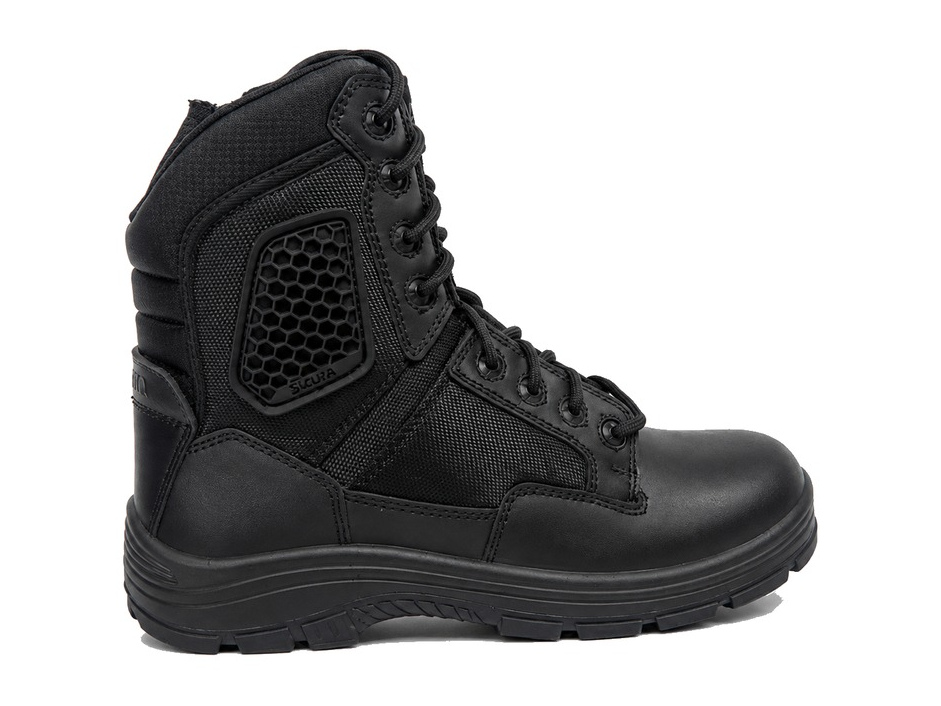
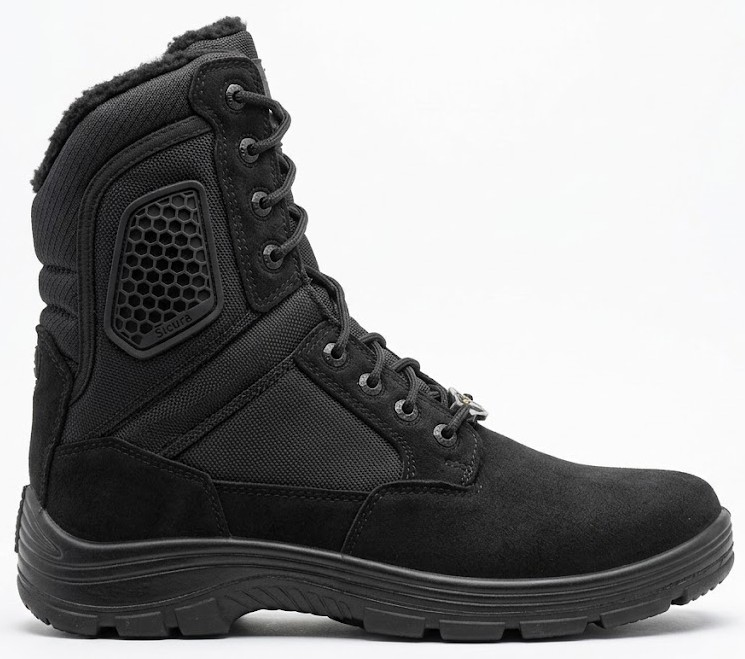
Replace eight existing footwear photos with matching new originals; preserve all article data and exclude extra ZIP photos

diff --git a/index.html b/index.html
@@ -2963,12 +2963,12 @@ height="0" width="0" style="display:none;visibility:hidden"></iframe></noscript>
         </div>
         <div class="solar-orbit" style="--r:135px; --a:160deg;">
           <button type="button" class="solar-planet" style="--color:#FFD400" data-goto-filter="boot">
-            <img src="assets/products/boot-black-orange.jpg" alt="Black ankle safety boot with orange trim" loading="lazy"><span>Ankle Boots</span>
+            <img src="assets/products/boot-black-orange.jpg?v=retake-20261031" alt="Black ankle safety boot with orange trim" loading="lazy"><span>Ankle Boots</span>
           </button>
         </div>
         <div class="solar-orbit" style="--r:175px; --a:-20deg;">
           <button type="button" class="solar-planet" style="--color:#DA3A16" data-goto-filter="sport">
-            <img src="assets/products/sport-lime-thick.jpg" alt="Lime sport safety sneaker" loading="lazy"><span>Sneakers &amp; Sport</span>
+            <img src="assets/products/sport-lime-thick.jpg?v=retake-20261031" alt="Lime sport safety sneaker" loading="lazy"><span>Sneakers &amp; Sport</span>
           </button>
         </div>
         <div class="solar-orbit" style="--r:215px; --a:250deg;">
@@ -2988,7 +2988,7 @@ height="0" width="0" style="display:none;visibility:hidden"></iframe></noscript>
         </div>
         <div class="solar-orbit" style="--r:335px; --a:200deg;">
           <button type="button" class="solar-planet" style="--color:#FFD400" data-goto-purpose="hivis">
-            <img src="assets/products/lace-safety-yellow.jpg" alt="High-visibility yellow lace-up safety shoe" loading="lazy"><span>High-Visibility</span>
+            <img src="assets/products/lace-safety-yellow.jpg?v=retake-20261031" alt="High-visibility yellow lace-up safety shoe" loading="lazy"><span>High-Visibility</span>
           </button>
         </div>
         </div>
@@ -3034,7 +3034,7 @@ height="0" width="0" style="display:none;visibility:hidden"></iframe></noscript>
       <button class="carousel-nav prev" id="prodPrev" aria-label="Scroll left">‹</button>
       <div class="product-carousel" id="productCarousel">
         <article tabindex="0" role="button" aria-label="View SJ 2503 details" class="product-card pop-in" data-category="chelsea" data-model="SJ 2503" data-name="sj 2503 chelsea safety boot slip-on comfort" data-purpose="everyday" data-product="chelsea-brown">
-          <div class="product-photo"><img src="assets/products/chelsea-brown.jpg" alt="SICURA brown leather chelsea safety boot" loading="lazy"></div>
+          <div class="product-photo"><img src="assets/products/chelsea-brown.jpg?v=retake-20261031" alt="SICURA brown leather chelsea safety boot" loading="lazy"></div>
           <div class="product-model">SJ 2503</div><div class="product-meta"><span class="product-name">Chelsea Safety Boot</span><span class="product-tag">Slip-On Comfort</span></div>
           <dl class="card-specs"><div><dt>Upper</dt><dd>Oily finish leather</dd></div><div><dt>Sole</dt><dd>PU PU Dual Density</dd></div></dl><div class="product-price">Price on request</div>
         </article>
@@ -3054,7 +3054,7 @@ height="0" width="0" style="display:none;visibility:hidden"></iframe></noscript>
           <dl class="card-specs"><div><dt>Upper</dt><dd>Corrected Grain Leather</dd></div><div><dt>Sole</dt><dd>PU PU Dual Density</dd></div></dl><div class="product-price">Price on request</div>
         </article>
         <article tabindex="0" role="button" aria-label="View SE 3004 details" class="product-card pop-in" data-category="boot" data-model="SE 3004" data-name="se 3004 ankle safety boot high-ankle support" data-purpose="industrial" data-product="boot-black-orange">
-          <div class="product-photo"><img src="assets/products/boot-black-orange.jpg" alt="SICURA black and orange ankle safety boot" loading="lazy"></div>
+          <div class="product-photo"><img src="assets/products/boot-black-orange.jpg?v=retake-20261031" alt="SICURA black and orange ankle safety boot" loading="lazy"></div>
           <div class="product-model">SE 3004</div><div class="product-meta"><span class="product-name">Ankle Safety Boot</span><span class="product-tag">High-Ankle Support</span></div>
           <dl class="card-specs"><div><dt>Upper</dt><dd>Corrected Grain Leather</dd></div><div><dt>Sole</dt><dd>PU PU Dual Density</dd></div></dl><div class="product-price">Price on request</div>
         </article>
@@ -3089,12 +3089,12 @@ height="0" width="0" style="display:none;visibility:hidden"></iframe></noscript>
           <dl class="card-specs"><div><dt>Upper</dt><dd>White Microfiber</dd></div><div><dt>Sole</dt><dd>PU Sole</dd></div></dl><div class="product-price">Price on request</div>
         </article>
         <article tabindex="0" role="button" aria-label="View SE 2598 details" class="product-card pop-in" data-category="sport" data-model="SE 2598" data-name="se 2598 sport safety shoe athletic grip" data-purpose="sport" data-product="sport-lime-thick">
-          <div class="product-photo"><img src="assets/products/sport-lime-thick.jpg" alt="SICURA black and lime sport safety shoe with thick sole" loading="lazy"></div>
+          <div class="product-photo"><img src="assets/products/sport-lime-thick.jpg?v=retake-20261031" alt="SICURA black and lime sport safety shoe with thick sole" loading="lazy"></div>
           <div class="product-model">SE 2598</div><div class="product-meta"><span class="product-name">Sport Safety Shoe</span><span class="product-tag">Athletic Grip</span></div>
           <dl class="card-specs"><div><dt>Upper</dt><dd>Forest Print Corrected Grain Leather</dd></div><div><dt>Sole</dt><dd>PU PU Dual Density</dd></div></dl><div class="product-price">Price on request</div>
         </article>
         <article tabindex="0" role="button" aria-label="View SK 715 details" class="product-card pop-in" data-category="chelsea" data-model="SK 715" data-name="sk 715 chelsea safety boot suede finish" data-purpose="everyday" data-product="chelsea-black-suede">
-          <div class="product-photo"><img src="assets/products/chelsea-black-suede.jpg" alt="SICURA black suede-finish chelsea safety boot" loading="lazy"></div>
+          <div class="product-photo"><img src="assets/products/chelsea-black-suede.jpg?v=retake-20261031" alt="SICURA black suede-finish chelsea safety boot" loading="lazy"></div>
           <div class="product-model">SK 715</div><div class="product-meta"><span class="product-name">Chelsea Safety Boot</span><span class="product-tag">Suede Finish</span></div>
           <dl class="card-specs"><div><dt>Upper</dt><dd>Microfiber Suede Upper Material</dd></div><div><dt>Sole</dt><dd>PU Sole</dd></div></dl><div class="product-price">Price on request</div>
         </article>
@@ -3119,7 +3119,7 @@ height="0" width="0" style="display:none;visibility:hidden"></iframe></noscript>
           <dl class="card-specs"><div><dt>Upper</dt><dd>Soft Milled Corrected Grain Leather</dd></div><div><dt>Sole</dt><dd>PU Sole</dd></div></dl><div class="product-price">Price on request</div>
         </article>
         <article tabindex="0" role="button" aria-label="View SJ 2704 details" class="product-card pop-in" data-category="lace" data-model="SJ 2704" data-name="sj 2704 lace-up safety shoe steel eyelets" data-purpose="industrial" data-product="lace-steel-eyelet">
-          <div class="product-photo"><img src="assets/products/lace-steel-eyelet.jpg" alt="SICURA black lace-up safety shoe with steel eyelets" loading="lazy"></div>
+          <div class="product-photo"><img src="assets/products/lace-steel-eyelet.jpg?v=retake-20261031" alt="SICURA black lace-up safety shoe with steel eyelets" loading="lazy"></div>
           <div class="product-model">SJ 2704</div><div class="product-meta"><span class="product-name">Lace-Up Safety Shoe</span><span class="product-tag">Steel Eyelets</span></div>
           <dl class="card-specs"><div><dt>Upper</dt><dd>Corrected Grain Leather</dd></div><div><dt>Sole</dt><dd>Rubber Sole</dd></div></dl><div class="product-price">Price on request</div>
         </article>
@@ -3144,17 +3144,17 @@ height="0" width="0" style="display:none;visibility:hidden"></iframe></noscript>
           <dl class="card-specs"><div><dt>Upper</dt><dd>BLACK WATER REPELLENT PE Textile</dd></div><div><dt>Sole</dt><dd>Rubber Outsole and PU Midsole</dd></div></dl><div class="product-price">Price on request</div>
         </article>
         <article tabindex="0" role="button" aria-label="View SQ 2684 details" class="product-card pop-in" data-category="boot" data-model="SQ 2684" data-name="sq 2684 tactical duty boot side zip" data-purpose="military" data-product="boot-tactical-hex">
-          <div class="product-photo"><img src="assets/products/boot-tactical-hex.jpg" alt="SICURA black tactical duty boot" loading="lazy"></div>
+          <div class="product-photo"><img src="assets/products/boot-tactical-hex.jpg?v=retake-20261031" alt="SICURA black tactical duty boot" loading="lazy"></div>
           <div class="product-model">SQ 2684</div><div class="product-meta"><span class="product-name">Tactical Duty Boot</span><span class="product-tag">Side-Zip Entry</span></div>
           <dl class="card-specs"><div><dt>Upper</dt><dd>Plain Soft Corrected Grain Leather and Mix of Textile</dd></div><div><dt>Sole</dt><dd>Rubber Outsole and PU Midsole</dd></div></dl><div class="product-price">Price on request</div>
         </article>
         <article tabindex="0" role="button" aria-label="View SJ 19025 details" class="product-card pop-in" data-category="lace" data-model="SJ 19025" data-name="sj 19025 safety shoe high visibility yellow" data-purpose="hivis" data-product="lace-safety-yellow">
-          <div class="product-photo"><img src="assets/products/lace-safety-yellow.jpg" alt="SICURA black safety shoe with yellow trim" loading="lazy"></div>
+          <div class="product-photo"><img src="assets/products/lace-safety-yellow.jpg?v=retake-20261031" alt="SICURA black safety shoe with yellow trim" loading="lazy"></div>
           <div class="product-model">SJ 19025</div><div class="product-meta"><span class="product-name">Safety Shoe</span><span class="product-tag">High-Visibility Trim</span></div>
           <dl class="card-specs"><div><dt>Upper</dt><dd>Corrected Grain Leather</dd></div><div><dt>Sole</dt><dd>PU PU Dual Density</dd></div></dl><div class="product-price">Price on request</div>
         </article>
         <article tabindex="0" role="button" aria-label="View SJ 2703 details" class="product-card pop-in" data-category="sport" data-model="SJ 2703" data-name="sj 2703 sport safety shoe suede blue" data-purpose="sport" data-product="sport-suede-blue">
-          <div class="product-photo"><img src="assets/products/sport-suede-blue.jpg" alt="SICURA blue suede sport safety shoe" loading="lazy"></div>
+          <div class="product-photo"><img src="assets/products/sport-suede-blue.jpg?v=retake-20261031" alt="SICURA blue suede sport safety shoe" loading="lazy"></div>
           <div class="product-model">SJ 2703</div><div class="product-meta"><span class="product-name">Sport Safety Shoe</span><span class="product-tag">Suede Trail Build</span></div>
           <dl class="card-specs"><div><dt>Upper</dt><dd>Suede Leather with Mix of Birex Textile</dd></div><div><dt>Sole</dt><dd>PU PU Dual Density</dd></div></dl><div class="product-price">Price on request</div>
         </article>
@@ -4820,7 +4820,7 @@ height="0" width="0" style="display:none;visibility:hidden"></iframe></noscript>
 
     var DETAILS = {
       'chelsea-brown': {
-        img: 'assets/products/chelsea-brown.jpg',
+        img: 'assets/products/chelsea-brown.jpg?v=retake-20261031',
         specs: [{ k: 'Model', v: 'SJ 2503' }, { k: 'Sole', v: 'PU PU Dual Density' }, { k: 'Upper', v: 'Oily finish leather' }, { k: 'Sizes', v: '35 TO 46' }, { k: 'Colours', v: 'Black Brown' }, { k: 'MOQ', v: '500 pairs' }, { k: 'Standard', v: 'EN ISO 20345:2024' }],
         desc: "A slip-on Chelsea boot for crews on and off the floor all day, with no laces to slow you down. Same reinforced toe and bonded sole as the rest of the range, in a warmer brown leather that reads less industrial.",
       },
@@ -4840,7 +4840,7 @@ height="0" width="0" style="display:none;visibility:hidden"></iframe></noscript>
         desc: "The cold-weather boot in the range. A warm lining holds heat through outdoor shifts, cold storage, and early starts, without adding bulk that slows you down.",
       },
       'boot-black-orange': {
-        img: 'assets/products/boot-black-orange.jpg',
+        img: 'assets/products/boot-black-orange.jpg?v=retake-20261031',
         specs: [{ k: 'Model', v: 'SE 3004' }, { k: 'Sole', v: 'PU PU Dual Density' }, { k: 'Upper', v: 'Corrected Grain Leather' }, { k: 'Sizes', v: '39 TO 46' }, { k: 'Colours', v: 'Black Brown' }, { k: 'MOQ', v: '500 PAIR' }, { k: 'Standard', v: 'EN ISO 20345:2024' }],
         desc: "A high-ankle boot built for real ankle-twist risk — loading docks, uneven yards, ladder work. Full-height lacing and a grippy orange sole, built for wet or oily floors, keep the foot stable where a standard boot won't.",
       },
@@ -4875,12 +4875,12 @@ height="0" width="0" style="display:none;visibility:hidden"></iframe></noscript>
         desc: "The lightest shoe in the range — for environments where a boot or lace-up is overkill, but certified protection still isn't optional. Athletic shape, full toe and sole protection underneath.",
       },
       'sport-lime-thick': {
-        img: 'assets/products/sport-lime-thick.jpg',
+        img: 'assets/products/sport-lime-thick.jpg?v=retake-20261031',
         specs: [{ k: 'Model', v: 'SE 2598' }, { k: 'Safety Class', v: 'S 1 / S1P' }, { k: 'Sole', v: 'PU PU Dual Density' }, { k: 'Upper', v: 'Forest Print Corrected Grain Leather' }, { k: 'Sizes', v: '39 TO 46' }, { k: 'Colours', v: 'Black Brown' }, { k: 'MOQ', v: '500 pairs' }, { k: 'Standard', v: 'EN ISO 20345:2024' }],
         desc: "The thicker-soled sport shoe — same breathable, lightweight build as the rest of the athletic line, with extra sole depth for more cushioning and grip on rougher ground.",
       },
       'chelsea-black-suede': {
-        img: 'assets/products/chelsea-black-suede.jpg',
+        img: 'assets/products/chelsea-black-suede.jpg?v=retake-20261031',
         specs: [{ k: 'Model', v: 'SK 715' }, { k: 'Sole', v: 'PU Sole' }, { k: 'Upper', v: 'Microfiber Suede Upper Material' }, { k: 'Sizes', v: '39 TO 46' }, { k: 'Colours', v: 'Black' }, { k: 'MOQ', v: '500 pairs' }, { k: 'Standard', v: 'EN ISO 20345:2024' }],
         desc: "A lower-profile Chelsea on a solid black outsole rather than the two-tone grey used elsewhere in the line — a cleaner, quieter look with the same slip-on convenience.",
       },
@@ -4920,7 +4920,7 @@ height="0" width="0" style="display:none;visibility:hidden"></iframe></noscript>
         desc: "A lighter combat boot — a leather-and-canvas build instead of full leather, for the same tall, laced coverage with less weight over a long, active shift.",
       },
       'boot-tactical-hex': {
-        img: 'assets/products/boot-tactical-hex.jpg',
+        img: 'assets/products/boot-tactical-hex.jpg?v=retake-20261031',
         specs: [{ k: 'Model', v: 'SQ 2684' }, { k: 'Sole', v: 'Rubber Outsole and PU Midsole' }, { k: 'Upper', v: 'Plain Soft Corrected Grain Leather and Mix of Textile' }, { k: 'Sizes', v: '39 TO 45' }, { k: 'Colours', v: 'Black' }, { k: 'MOQ', v: '500 pairs' }, { k: 'Standard', v: 'EN ISO 20345:2024' }],
         desc: "A low-profile, side-zip duty boot for roles that need speed and quiet, not just standing power. Closer to tactical footwear than a standard work boot.",
       },
@@ -4930,17 +4930,17 @@ height="0" width="0" style="display:none;visibility:hidden"></iframe></noscript>
         desc: "The standard black lace-up on a tan contrast sole — same everyday protection, a slightly warmer look than the all-black version.",
       },
       'lace-safety-yellow': {
-        img: 'assets/products/lace-safety-yellow.jpg',
+        img: 'assets/products/lace-safety-yellow.jpg?v=retake-20261031',
         specs: [{ k: 'Model', v: 'SJ 19025' }, { k: 'Sole', v: 'PU PU Dual Density' }, { k: 'Upper', v: 'Corrected Grain Leather' }, { k: 'Sizes', v: '35 TO 46' }, { k: 'Colours', v: 'Black Brown' }, { k: 'MOQ', v: '500 pairs' }, { k: 'Standard', v: 'EN ISO 20345:2024' }],
         desc: "High-visibility yellow trim placed where it actually helps — lacing, collar, sole — for anyone who needs to be seen in low light or busy yards.",
       },
       'lace-steel-eyelet': {
-        img: 'assets/products/lace-steel-eyelet.jpg',
+        img: 'assets/products/lace-steel-eyelet.jpg?v=retake-20261031',
         specs: [{ k: 'Model', v: 'SJ 2704' }, { k: 'Sole', v: 'Rubber Sole' }, { k: 'Upper', v: 'Corrected Grain Leather' }, { k: 'Sizes', v: '35 TO 46' }, { k: 'Colours', v: 'Black Brown' }, { k: 'MOQ', v: '500 pairs' }, { k: 'Standard', v: 'EN ISO 20345:2024' }],
         desc: "Built around one upgrade: real steel eyelets instead of the standard finish, for anyone hard on their laces and eyelets day to day.",
       },
       'sport-suede-blue': {
-        img: 'assets/products/sport-suede-blue.jpg',
+        img: 'assets/products/sport-suede-blue.jpg?v=retake-20261031',
         specs: [{ k: 'Model', v: 'SJ 2703' }, { k: 'Safety Class', v: 'S 1 / S1P' }, { k: 'Sole', v: 'PU PU Dual Density' }, { k: 'Upper', v: 'Suede Leather with Mix of Birex Textile' }, { k: 'Sizes', v: '35 TO 46' }, { k: 'Colours', v: 'Black Blue Beige' }, { k: 'MOQ', v: '500 pairs' }, { k: 'Standard', v: 'EN ISO 20345:2024' }],
         desc: "A suede-textured take on the sport line, in a distinct blue-grey tone — same lightweight, athletic build, with a deeper tread for trail or outdoor-adjacent ground.",
       },
@@ -5245,7 +5245,7 @@ height="0" width="0" style="display:none;visibility:hidden"></iframe></noscript>
 <script id="product-framing-script">
 (function(){
  'use strict';
- const frames={"boot-black-orange.jpg":[792,594,52,67,693,450,0],"boot-brown-fur.jpg":[787,591,47,68,694,461,0],"boot-canvas-combat.jpg":[831,624,52,56,730,510,0],"boot-chukka-black.jpg":[785,589,45,96,694,397,0],"boot-tactical-hex.jpg":[941,706,123,49,695,606,2.3],"boot-tall-combat.jpg":[820,615,64,43,695,526,0],"boot-tan-military.jpg":[828,621,69,48,695,526,0],"boot-tan-trim.jpg":[788,591,47,92,695,406,0],"boot-tan-zip.jpg":[792,594,51,96,695,399,0],"boot-zip-ankle.jpg":[809,607,46,91,715,422,0],"chelsea-black-suede.jpg":[787,591,47,50,695,494,0],"chelsea-black.jpg":[799,600,51,40,694,516,0],"chelsea-brown.jpg":[813,610,60,43,698,515,0],"chelsea-red.jpg":[802,602,56,42,695,513,0],"lace-black-orange.jpg":[792,594,51,127,695,344,0],"lace-black-tan.jpg":[792,594,51,127,695,337,0],"lace-black-tansole.jpg":[789,592,49,130,695,337,0],"lace-black-thread.jpg":[790,593,49,130,695,334,0],"lace-black.jpg":[783,588,43,115,694,356,0],"lace-brown.jpg":[792,594,50,124,696,343,0],"lace-safety-yellow.jpg":[792,594,51,106,695,378,0],"lace-steel-eyelet.jpg":[792,594,51,97,693,398,0],"sneaker-white.jpg":[895,672,75,94,751,423,0],"sport-lime-thick.jpg":[792,594,51,115,694,358,0],"sport-suede-blue.jpg":[802,602,52,129,701,342,0]};
+ const frames={"boot-black-orange.jpg":[808,523,13,7,794,515,0],"boot-brown-fur.jpg":[787,591,47,68,694,461,0],"boot-canvas-combat.jpg":[831,624,52,56,730,510,0],"boot-chukka-black.jpg":[785,589,45,96,694,397,0],"boot-tactical-hex.jpg":[745,659,8,16,728,630,0],"boot-tall-combat.jpg":[820,615,64,43,695,526,0],"boot-tan-military.jpg":[828,621,69,48,695,526,0],"boot-tan-trim.jpg":[788,591,47,92,695,406,0],"boot-tan-zip.jpg":[792,594,51,96,695,399,0],"boot-zip-ankle.jpg":[809,607,46,91,715,422,0],"chelsea-black-suede.jpg":[777,601,10,10,747,579,0],"chelsea-black.jpg":[799,600,51,40,694,516,0],"chelsea-brown.jpg":[724,534,6,11,713,523,0],"chelsea-red.jpg":[802,602,56,42,695,513,0],"lace-black-orange.jpg":[792,594,51,127,695,344,0],"lace-black-tan.jpg":[792,594,51,127,695,337,0],"lace-black-tansole.jpg":[789,592,49,130,695,337,0],"lace-black-thread.jpg":[790,593,49,130,695,334,0],"lace-black.jpg":[783,588,43,115,694,356,0],"lace-brown.jpg":[792,594,50,124,696,343,0],"lace-safety-yellow.jpg":[750,456,3,27,747,422,0],"lace-steel-eyelet.jpg":[813,448,0,2,813,440,0],"sneaker-white.jpg":[895,672,75,94,751,423,0],"sport-lime-thick.jpg":[856,474,0,15,846,453,0],"sport-suede-blue.jpg":[871,465,0,7,871,449,0]};
  const selector='.product-photo img,.solar-planet img,#productModalImg,.related-photo img';
  const seen=new WeakSet();
  function sourceFrame(img){return frames[(img.getAttribute('src')||'').split('/').pop().split('?')[0]];}
